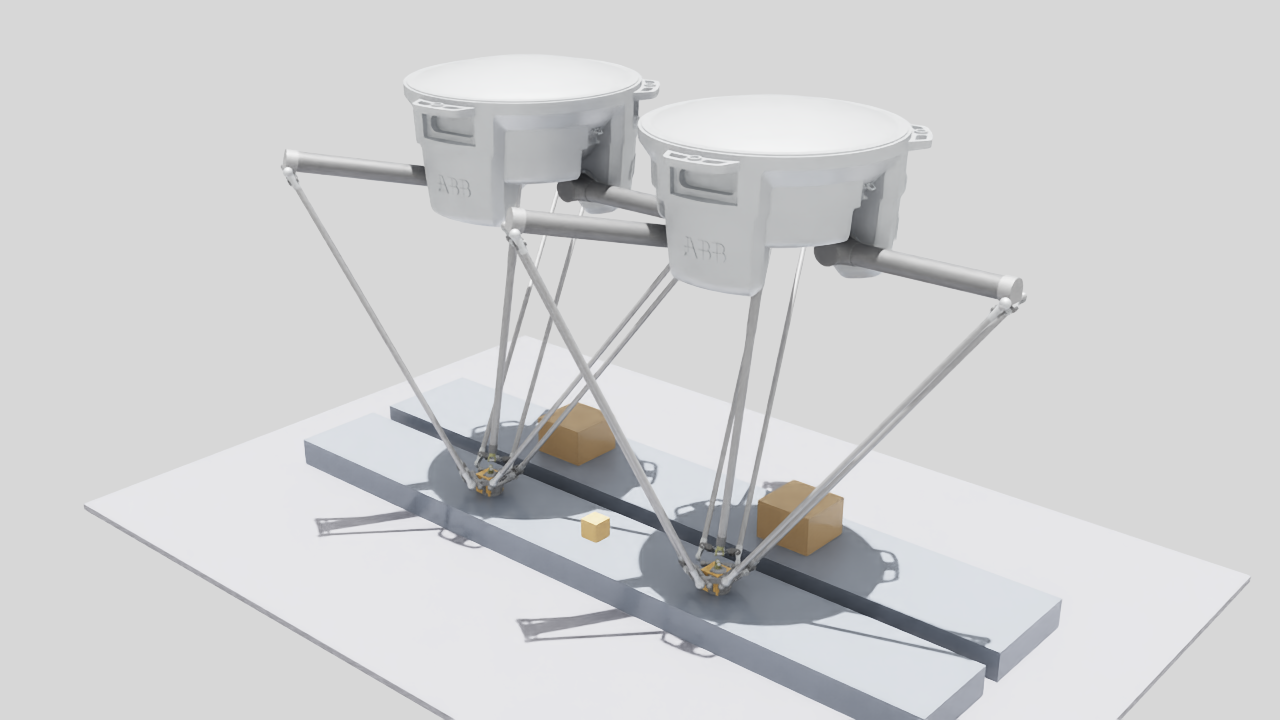
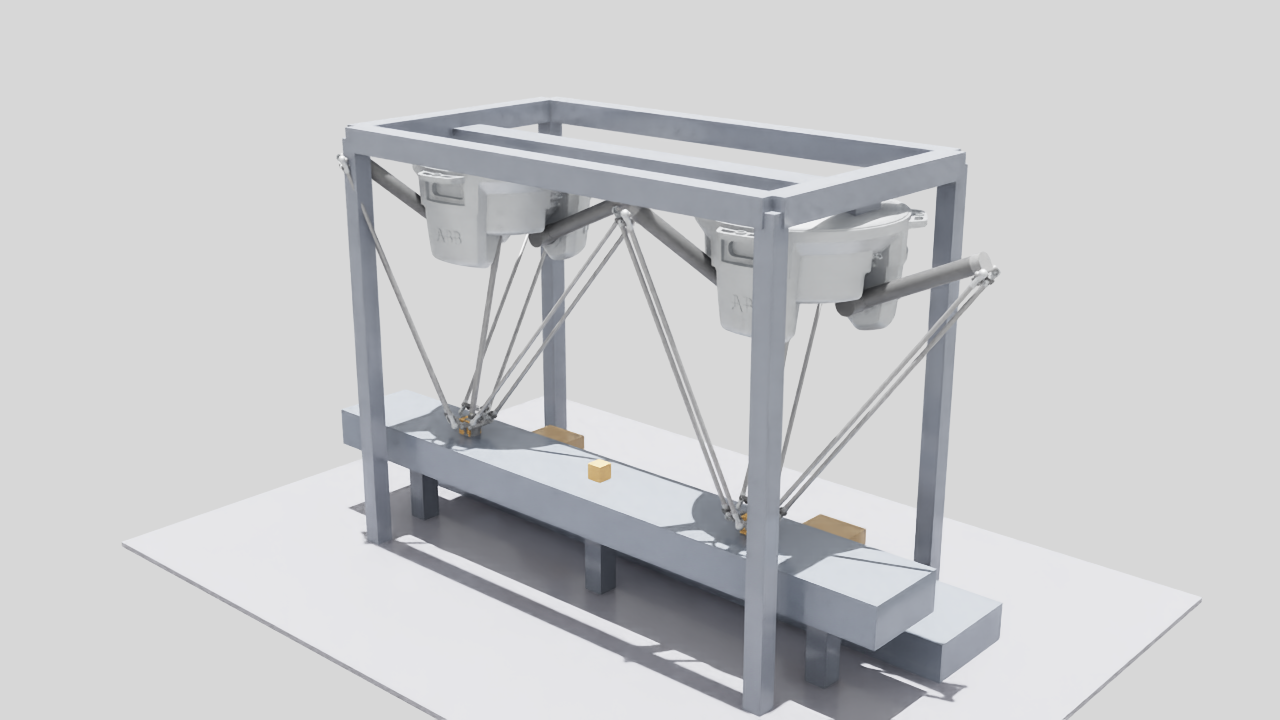
Cell frame v3: enclosure + 3-point robot mounts (match reference cell)
From the reference video/topview: rebuild the frame as a wide black-steel machine
enclosure (columns at ends+centre, top deck perimeter+cross beams open under each
robot, side rails at two heights) with robots mounting on the TOP DECK via a
3-point mount (pads at the 3 arm azimuths, open centre) instead of hanging from a
beam. Wider frame (1.5 m) so arms clear the columns. Green belts. Pose A at pick /
B at place to validate both reach extremes; camera pulled back. (CellVideo.mp4
gitignored.)

Claude-Session: https://claude.ai/code/session_01UqHi5DwZBQ5yLxQGGrgbMj

diff --git a/scripts/cell_layout.py b/scripts/cell_layout.py
@@ -73,34 +73,53 @@ UsdGeom.SetStageMetersPerUnit(stage, 1.0)
 UsdGeom.Xform.Define(stage, "/World")
 UsdGeom.Xform.Define(stage, "/World/Cell")
 
-box(stage, "/World/Floor", (3.4, 2.4, 0.02), (0.0, 0.0, 0.0), color=(0.35, 0.35, 0.38))
+import math as _m  # noqa: E402
 
-# conveyors (belt-top at *_TOP; a 0.15 m-tall belt body sits below it)
-BELT_H = 0.15
-box(stage, "/World/BoxConveyor", (BELT_LEN, 0.40, BELT_H),
-    (0.0, BOX_Y, BOX_TOP - BELT_H / 2), color=(0.25, 0.28, 0.32))
+STEEL = (0.10, 0.11, 0.13)      # black machine-frame steel
+GREEN = (0.20, 0.55, 0.25)      # belt surface
+DECK_Z = BASE_Z                 # robots mount on the top deck
+FR_L, FR_W = 2.9, 1.5           # enclosure length (X) x width (Y); wide -> arms clear
+c = 0.09                        # structural member thickness
+
+box(stage, "/World/Floor", (3.6, 2.4, 0.02), (0.0, 0.0, 0.0), color=(0.32, 0.33, 0.36))
+
+# conveyors: green belts, box belt low + product belt one foot higher
+BELT_H = 0.14
+box(stage, "/World/BoxConveyor", (BELT_LEN, 0.42, BELT_H),
+    (0.0, BOX_Y, BOX_TOP - BELT_H / 2), color=GREEN)
 box(stage, "/World/SrcConveyor", (BELT_LEN, 0.34, BELT_H),
-    (0.0, SRC_Y, SRC_TOP - BELT_H / 2), color=(0.25, 0.28, 0.32))
-# stands under the elevated source conveyor
-for i, sx in enumerate((-1.0, 0.0, 1.0)):
+    (0.0, SRC_Y, SRC_TOP - BELT_H / 2), color=GREEN)
+for i, sx in enumerate((-1.1, 0.0, 1.1)):   # stands under the elevated product belt
     box(stage, f"/World/SrcStand_{i}", (0.08, 0.08, SRC_TOP - BELT_H),
-        (sx, SRC_Y, (SRC_TOP - BELT_H) / 2), color=(0.22, 0.24, 0.27))
+        (sx, SRC_Y, (SRC_TOP - BELT_H) / 2), color=STEEL)
 
-# portal gantry: 4 legs + top perimeter beams + a central mount beam
-GY, GX, GTZ = 0.5, 0.95, BASE_Z + 0.12
-for i, (lx, ly) in enumerate([(-GX, -GY), (-GX, GY), (GX, -GY), (GX, GY)]):
-    box(stage, f"/World/Gantry_leg_{i}", (0.07, 0.07, GTZ),
-        (lx, ly, GTZ / 2), color=(0.3, 0.32, 0.36))
-for i, ly in enumerate((-GY, GY)):
-    box(stage, f"/World/Gantry_beamX_{i}", (2 * GX, 0.09, 0.09), (0.0, ly, GTZ),
-        color=(0.3, 0.32, 0.36))
-for i, lx in enumerate((-GX, GX)):
-    box(stage, f"/World/Gantry_beamY_{i}", (0.09, 2 * GY, 0.09), (lx, 0.0, GTZ),
-        color=(0.3, 0.32, 0.36))
-box(stage, "/World/Gantry_mount", (2 * GX, 0.14, 0.12), (0.0, 0.0, BASE_Z + 0.05),
-    color=(0.28, 0.30, 0.34))
+# --- machine enclosure (black steel cage; robots on the top deck) ----------
+COL_X = (-FR_L / 2, 0.0, FR_L / 2)   # columns at ends + centre; robots (+/-0.7) sit between, clear
+COL_Y = (-FR_W / 2, FR_W / 2)
+k = 0
+for cx in COL_X:                     # vertical columns floor -> deck
+    for cy in COL_Y:
+        box(stage, f"/World/Frame_col_{k}", (c, c, DECK_Z), (cx, cy, DECK_Z / 2), color=STEEL)
+        k += 1
+for i, cy in enumerate(COL_Y):       # top deck perimeter (X beams) -- open under each robot
+    box(stage, f"/World/Frame_topX_{i}", (FR_L, c, c), (0.0, cy, DECK_Z), color=STEEL)
+for i, cx in enumerate(COL_X):       # top deck cross members (Y beams) at the columns
+    box(stage, f"/World/Frame_topY_{i}", (c, FR_W, c), (cx, 0.0, DECK_Z), color=STEEL)
+for j, rz in enumerate((0.55, 1.05)):   # side rails at two heights (cage look)
+    for i, cy in enumerate(COL_Y):
+        box(stage, f"/World/Frame_rail_{j}_{i}", (FR_L, c, c), (0.0, cy, rz), color=STEEL)
 
-# a few parts on the source belt + boxes on the box belt (visual scale)
+# --- 3-point robot mounts on the deck (delta bolts via its 3 motor axes) ----
+MOUNT_R = 0.20
+for name, cfg in ROBOTS.items():
+    rx = cfg["base"][0]
+    for a, phi in enumerate((0.0, 120.0, 240.0)):     # pads at the 3 arm azimuths
+        px = rx + MOUNT_R * _m.cos(_m.radians(phi))
+        py = MOUNT_R * _m.sin(_m.radians(phi))
+        box(stage, f"/World/Mount_{name}_{a}", (0.15, 0.12, 0.05),
+            (px, py, DECK_Z + 0.025), color=(0.16, 0.17, 0.19))
+
+# a few parts on the product belt + boxes on the box belt (visual scale)
 for i, x in enumerate((-ROBOT_X, 0.0, ROBOT_X)):
     box(stage, f"/World/Part_{i}", (0.06, 0.06, 0.06), (x, SRC_Y, PART_Z), color=(0.85, 0.5, 0.2))
 for i, x in enumerate((-ROBOT_X, ROBOT_X)):
@@ -116,14 +135,18 @@ for name, cfg in ROBOTS.items():
 for _ in range(60):
     app.update()
 
-# pose each robot reaching the source pick point under it (world -> local mm)
+# pose robots at both reach extremes: A picks from the product belt, B places
+# over a box on the box belt (world target -> robot local mm)
 for name, cfg in ROBOTS.items():
     bx = cfg["base"][0]
-    pick_world = (bx, SRC_Y, PART_Z)
-    T_local = world_to_local(bases[name], pick_world)
+    if name == "Robot_A":
+        tgt = (bx, SRC_Y, PART_Z)             # pick from product belt (higher)
+    else:
+        tgt = (bx, BOX_Y, BOX_TOP + 0.18)     # place over a box (lower)
+    T_local = world_to_local(bases[name], tgt)
     pose(stage, f"/World/Cell/{name}", T_local)
-    print(f"  {name}: pick_world={pick_world}  T_local(mm)="
-          f"({T_local[0]:.0f},{T_local[1]:.0f},{T_local[2]:.0f})")
+    print(f"  {name}: tgt_world=({tgt[0]:.2f},{tgt[1]:.2f},{tgt[2]:.2f})  "
+          f"T_local(mm)=({T_local[0]:.0f},{T_local[1]:.0f},{T_local[2]:.0f})")
 
 # lights + render -----------------------------------------------------------
 UsdLux.DomeLight.Define(stage, "/World/Light_Dome").CreateIntensityAttr(700.0)
@@ -131,7 +154,7 @@ UsdLux.DistantLight.Define(stage, "/World/Light_Key").CreateIntensityAttr(2500.0
 
 import omni.replicator.core as rep  # noqa: E402
 
-cam = rep.create.camera(position=(3.4, -3.8, 2.5), look_at=(0.0, 0.0, 0.85))
+cam = rep.create.camera(position=(3.9, -4.3, 2.7), look_at=(0.0, 0.0, 0.8))
 rp = rep.create.render_product(cam, (1280, 720))
 rgb = rep.AnnotatorRegistry.get_annotator("rgb")
 rgb.attach([rp])